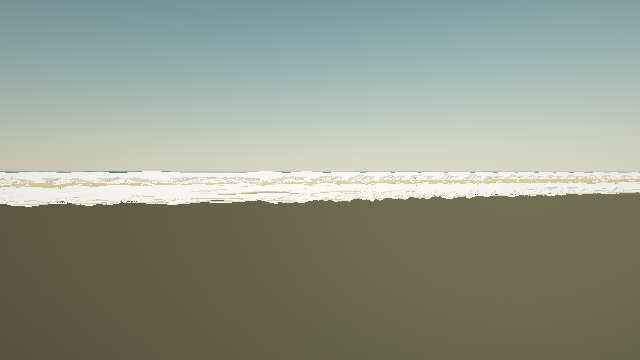
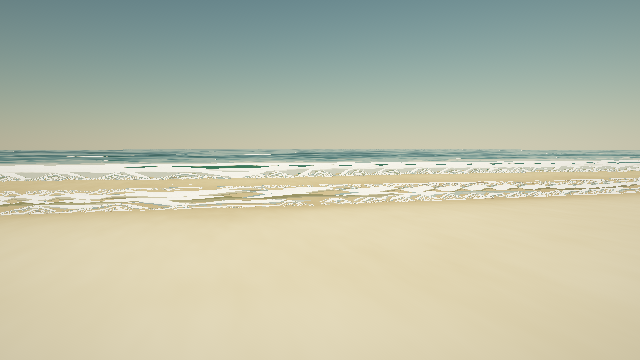
Render the beach that was never rendering, and add stills
Two bugs, one of which had been hiding behind the other since the beach scene
was written.

The sand mesh is drawn with the same polar grid as the ocean, whose winding puts
the visible face away from the camera. The ocean material is DoubleSide so it
never noticed; the sand material was not, so every triangle of the beach was
back-face culled and had never once been drawn. What filled the bottom half of
the frame instead was the sky's below-horizon ground lobe, which is a warm olive
and looks enough like wet sand at a distance that it survived several rounds of
me tuning the "sand" and wondering why nothing changed.

Finding it took ruling out the ocean and the sand in turn, which needed handles
on both meshes, so those are exposed now.

The second bug was real but invisible while the first one hid it: skyRad is a
radiance and the sand shading used it as an irradiance before dividing by pi, so
dry sand rendered about three times too dark. The foam had the identical slip,
which is why whitecaps read as grey shingle under the storm overcast.

Also: the surf-zone foam terms were saturating the whole break to white, the
beach camera was too grazing to show anything, and the seabed albedo was a
single octave that averages to one flat colour at exactly the angles a beach is
usually seen from.

shots/ now holds a still of each scene, and the beach is a beach.

Claude-Session: https://claude.ai/code/session_01QynM9YFaUN1brBbcqJA9ae

diff --git a/swell/submissions/breaking-slope-threshold/sheet.html b/swell/submissions/breaking-slope-threshold/sheet.html
@@ -27,8 +27,8 @@
   footer { color:var(--dim); margin-top:28px; font-size:11.5px; }
 </style>
 <h1>breaking &nbsp;·&nbsp; slope-threshold <span style="color:var(--dim)">vs</span> fold-ridge</h1>
-<p class="sub">2026-08-20T18:18:43.649Z &middot; 8 fixtures &middot; chromium / swiftshader</p>
-<div class="banner good"><b>Gates pass.</b> Costs 0.73× the champion.
+<p class="sub">2026-08-20T18:35:18.211Z &middot; 8 fixtures &middot; chromium / swiftshader</p>
+<div class="banner good"><b>Gates pass.</b> Costs 0.77× the champion.
        Physics: whitecap moved further from its reference.
        <br><span style="color:var(--dim)">Untouched by this slot: waveHeight, spectralSlope.</span>
        <br>The measurements cannot tell you whether it looks better. That is what the frames below are for.</div>
@@ -50,7 +50,7 @@
 <tr class="good">
     <td>Temporal stability</td>
     <td class="mono">pass</td>
-    <td class="mono">0.217 index</td>
+    <td class="mono">0.219 index</td>
     <td class="note">Two frames one 60th of a second apart, differenced and high-pass filtered, then divided by the high-frequency detail already in the frame. A wave crossing the screen produces a smooth difference; aliasing produces a speckled one. The normalisation is what makes the number comparable between a millpond and a storm — unnormalised it mostly measures how much detail a scene has. This is the gate that catches &quot;I turned the detail up and the screenshot looks amazing&quot;, which is the most common regression in this project.</td>
   </tr></table>
 
@@ -58,10 +58,10 @@
 <table><tr><th>Measure</th><th>Champion</th><th>Candidate</th><th>Reference</th><th>Δ</th><th>What it is</th></tr>
 <tr>
     <td>Frame cost</td>
-    <td class="mono">2129.237</td>
-    <td class="mono">1554.537 ms</td>
-    <td class="mono">1976.200</td>
-    <td class="mono good">0.73×</td>
+    <td class="mono">2056.725</td>
+    <td class="mono">1581.300 ms</td>
+    <td class="mono">1966.500</td>
+    <td class="mono good">0.77×</td>
     <td class="note">Median frame time over a short burst, measured inside the page with an explicit glFinish. Absolute numbers come from a software rasteriser and are not a frame budget for real hardware; the ratio against the champion is the number that travels.</td>
   </tr>
 <tr>

diff --git a/swell/src/materials.js b/swell/src/materials.js
@@ -156,6 +156,11 @@ export function sandMaterial(selection, knobs, sharedUniforms) {
   const chain = HOST_DECLS + assemble(selection, knobs);
   return new THREE.ShaderMaterial({
     glslVersion: THREE.GLSL3,
+    // DoubleSide, like the ocean. The polar grid's winding puts the visible face
+    // away from the camera, so a front-facing sand mesh is silently culled and
+    // the beach renders as the sky's ground lobe — which looks enough like wet
+    // sand from a distance to hide the bug for a long time.
+    side: THREE.DoubleSide,
     uniforms: sharedUniforms,
     vertexShader: /* glsl */`
       in float aSpacing;
@@ -196,7 +201,10 @@ export function sandMaterial(selection, knobs, sharedUniforms) {
 
         vec3 sunRad = sw_sunRadiance(uSunDir);
         vec3 skyRad = sw_skyAmbient(uSunDir);
-        vec3 col = albedo * (sunRad * sat(dot(N, uSunDir)) + skyRad * 0.55) * (1.0 / SW_PI);
+        // skyRad is a radiance; the hemisphere it stands for delivers about pi
+        // times as much irradiance. Same slip as the foam had, and it is what
+        // makes dry sand read as wet asphalt.
+        vec3 col = albedo * (sunRad * sat(dot(N, uSunDir)) + skyRad * SW_PI * 0.55) * (1.0 / SW_PI);
 
         // Wet sand holds a broad specular sheen; dry sand holds none.
         vec3 H = normalize(uSunDir + V);

diff --git a/swell/src/scenes.js b/swell/src/scenes.js
@@ -66,14 +66,14 @@ export const SCENES = {
     note: 'A shelving beach with the swell running in from -Z. Shoaling, refraction and ' +
           'the depth-limited break all have to work at once, and the waterline has to ' +
           'move. This is the scene that separates a real spectrum from a sine sum.',
-    camera: { position: [-9, 2.2, -47], target: [15, 0.35, -128] },
+    camera: { position: [-11, 7.2, -26], target: [13, 0.2, -118] },
     knobs: {
       shoreEnabled: 1, shoreZ: -60, beachSlope: 0.028, seaFloorDepth: 55,
       windSpeed: 6.8, windDirDeg: 90, fetch: 240, spread: 0.9,
       swellHeight: 1.6, swellPeriod: 12.5, swellDirDeg: 90, swellSpread: 0.08,
       shoalStrength: 1.0, foamCoverage: 1.15, foamDecay: 0.5,
       sunElevationDeg: 26, sunAzimuthDeg: 150, sunIntensity: 1.0,
-      turbidity: 3.0, fogDensity: 0.7, exposure: 0.85,
+      turbidity: 3.0, fogDensity: 0.7, exposure: 0.62,
       absorption: 0.16, refract: 0.7,
       waterShallow: [0.10, 0.34, 0.33], sandColor: [0.66, 0.57, 0.45],
       fov: 46,

diff --git a/swell/src/slots/water/absorb-sss.js b/swell/src/slots/water/absorb-sss.js
@@ -43,8 +43,15 @@ float sw_ggx(vec3 N, vec3 V, vec3 L, float rough){
 }
 
 vec3 sw_seabedAlbedo(vec2 p){
-  float grain = sw_fbm(p * 0.35, 3) * 0.22 + sw_fbm(p * 0.04, 3) * 0.18;
-  return uSandColor * (0.82 + grain);
+  // Three scales: ripple, patch, and a broad drift of darker mineral sand.
+  // A single octave reads as one flat colour the moment the camera is anywhere
+  // near grazing, which on a beach is most of the time.
+  float ripple = sw_fbm(vec2(p.x * 0.9, p.y * 0.25), 3);
+  float blotch = sw_fbm(p * 0.09, 3);
+  float drift  = sw_fbm(p * 0.014, 2);
+  vec3 dark = uSandColor * vec3(0.72, 0.70, 0.76);
+  return mix(uSandColor, dark, sat(drift * 1.3 - 0.15))
+       * (0.80 + 0.24 * blotch + 0.13 * ripple);
 }
 
 vec3 sw_waterShade(Surf s){

diff --git a/swell/src/slots/breaking/fold-ridge.js b/swell/src/slots/breaking/fold-ridge.js
@@ -110,9 +110,9 @@ float sw_breakDrive(Wave w, float depth){
     float gamma = H / max(depth, 0.08);
     // These are added in fold units and then normalised with everything else, so
     // they are scaled to land well above the breaking level once divided.
-    drive += smoothstep(uFoamGamma * 0.6, uFoamGamma, gamma) * 1.9 * w.foldRms * uFoamLevel;
+    drive += smoothstep(uFoamGamma * 0.55, uFoamGamma * 1.15, gamma) * 1.15 * w.foldRms * uFoamLevel;
     // Anything still wet on dry-ish sand is swash, and swash is white.
-    drive += smoothstep(1.2, 0.15, depth) * 0.9 * w.foldRms * uFoamLevel;
+    drive += smoothstep(0.9, 0.1, depth) * 0.5 * w.foldRms * uFoamLevel;
   }
   return drive;
 }

diff --git a/swell/src/app.js b/swell/src/app.js
@@ -231,6 +231,9 @@ export function createApp(canvas, opts = {}) {
     setSize,
     renderFrame,
     probe,
+    // Handles on the two meshes, so a harness can isolate which one is drawing
+    // a given pixel instead of guessing from colour.
+    get meshes() { return { ocean: oceanMesh, sand: sandMesh }; },
     applyCamera,
     // Free camera, for a human nudging the view before capturing a fixture.
     cameraState() {
